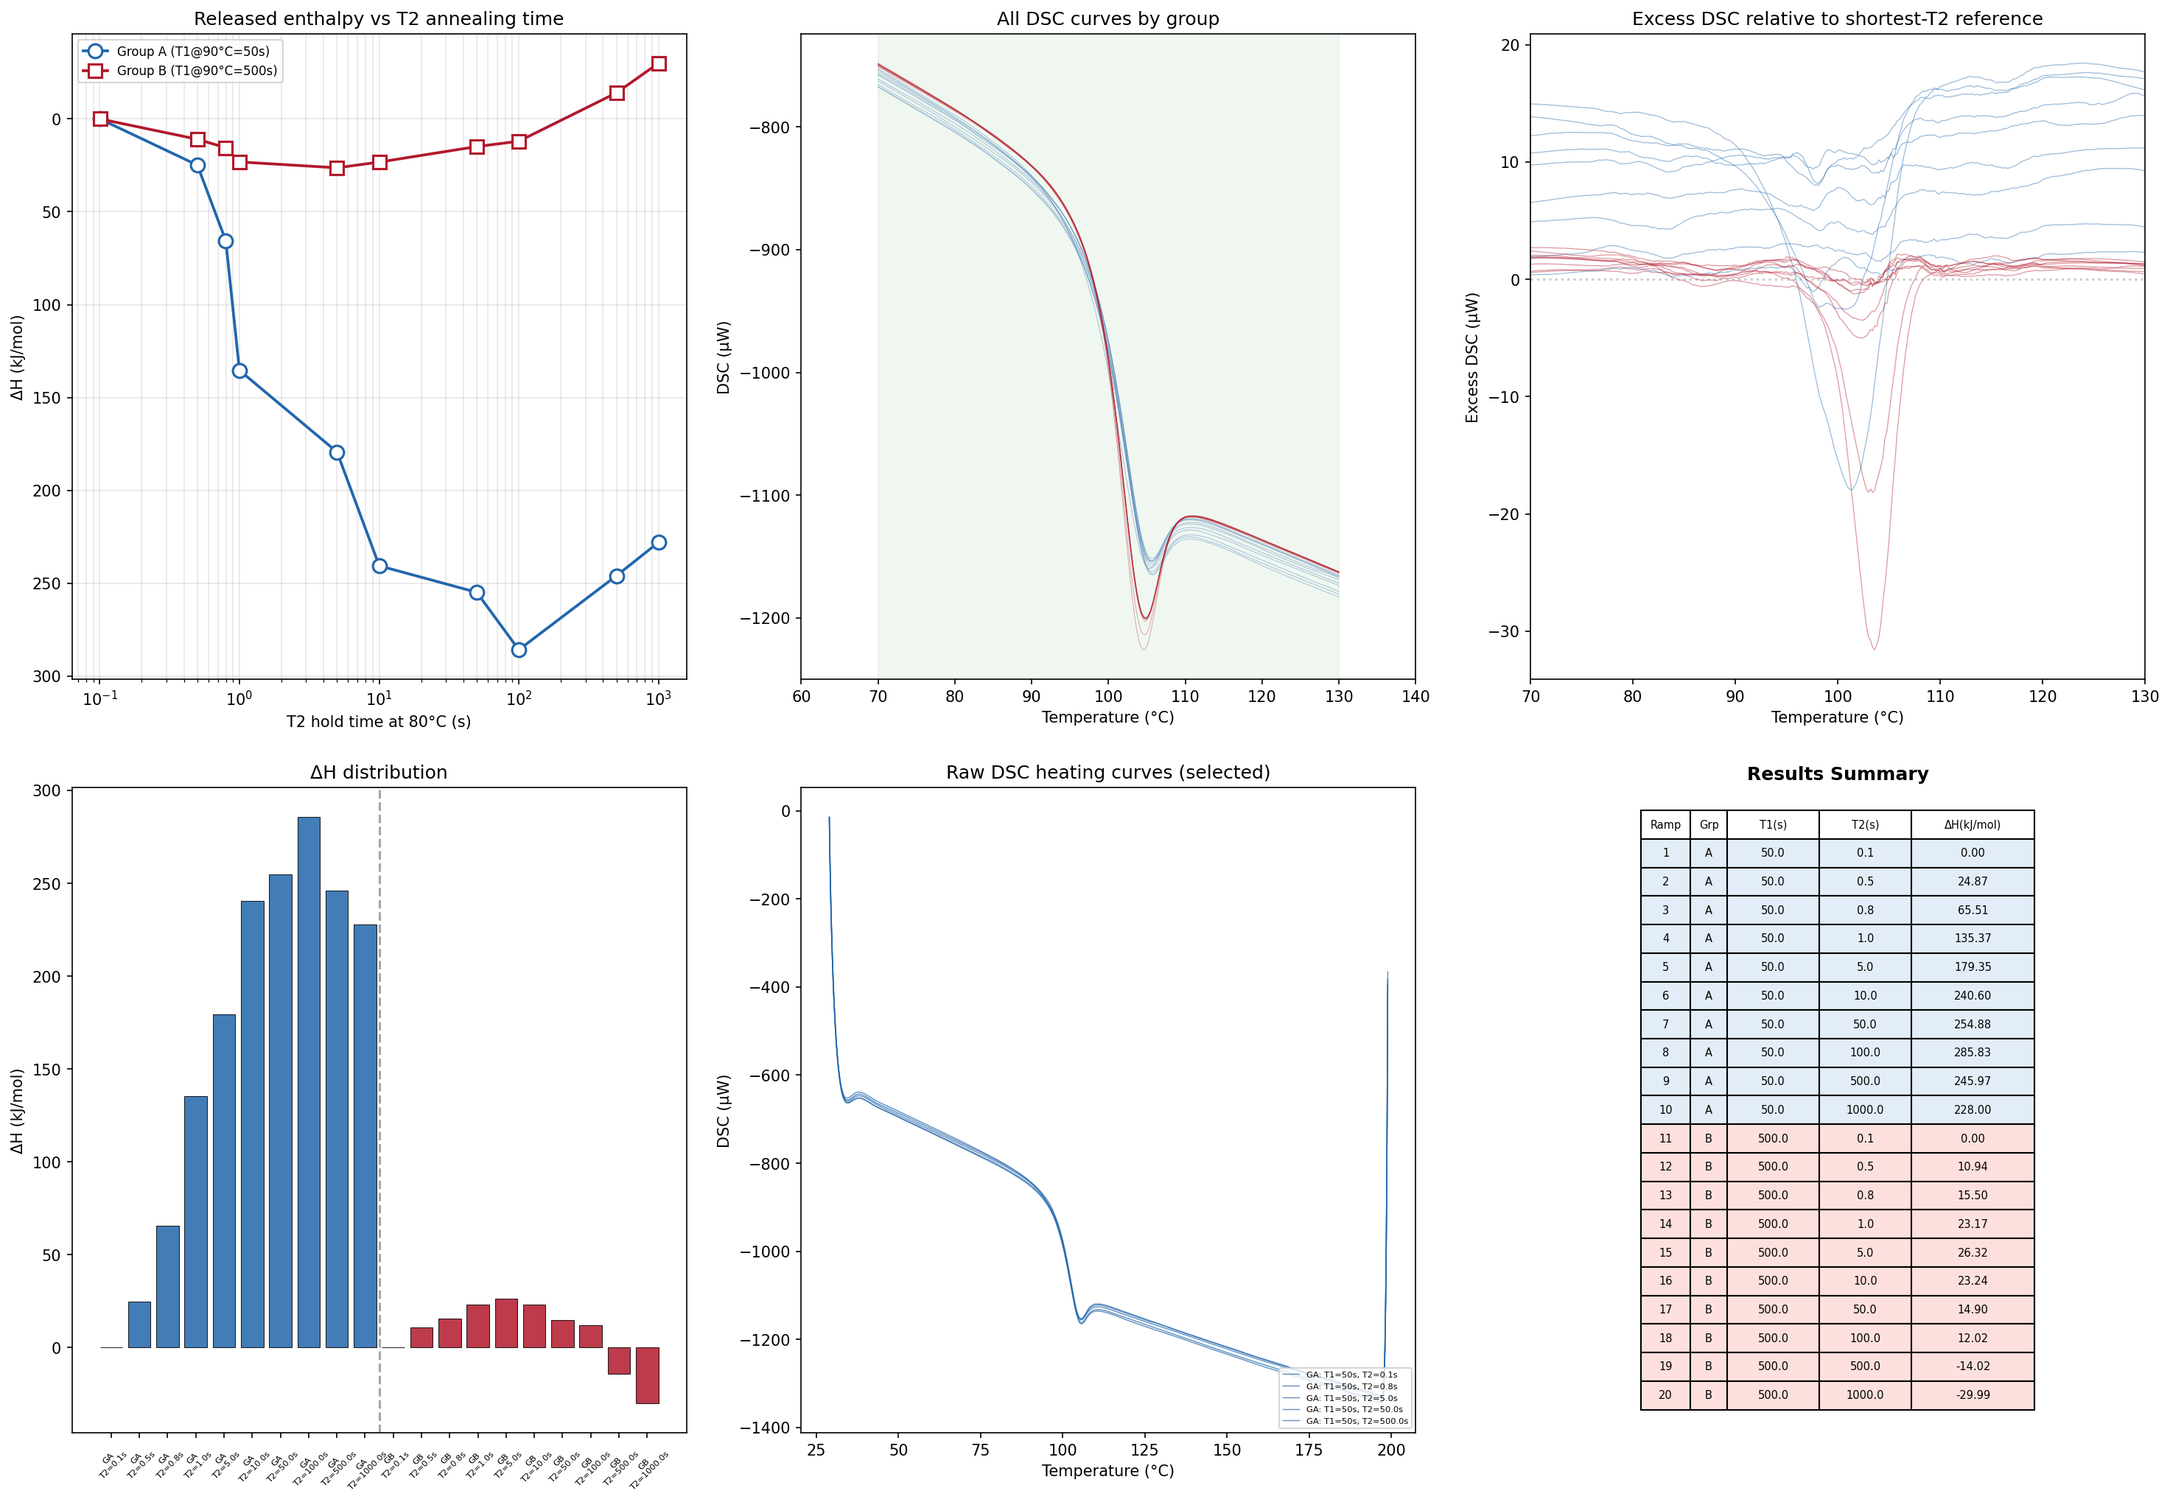
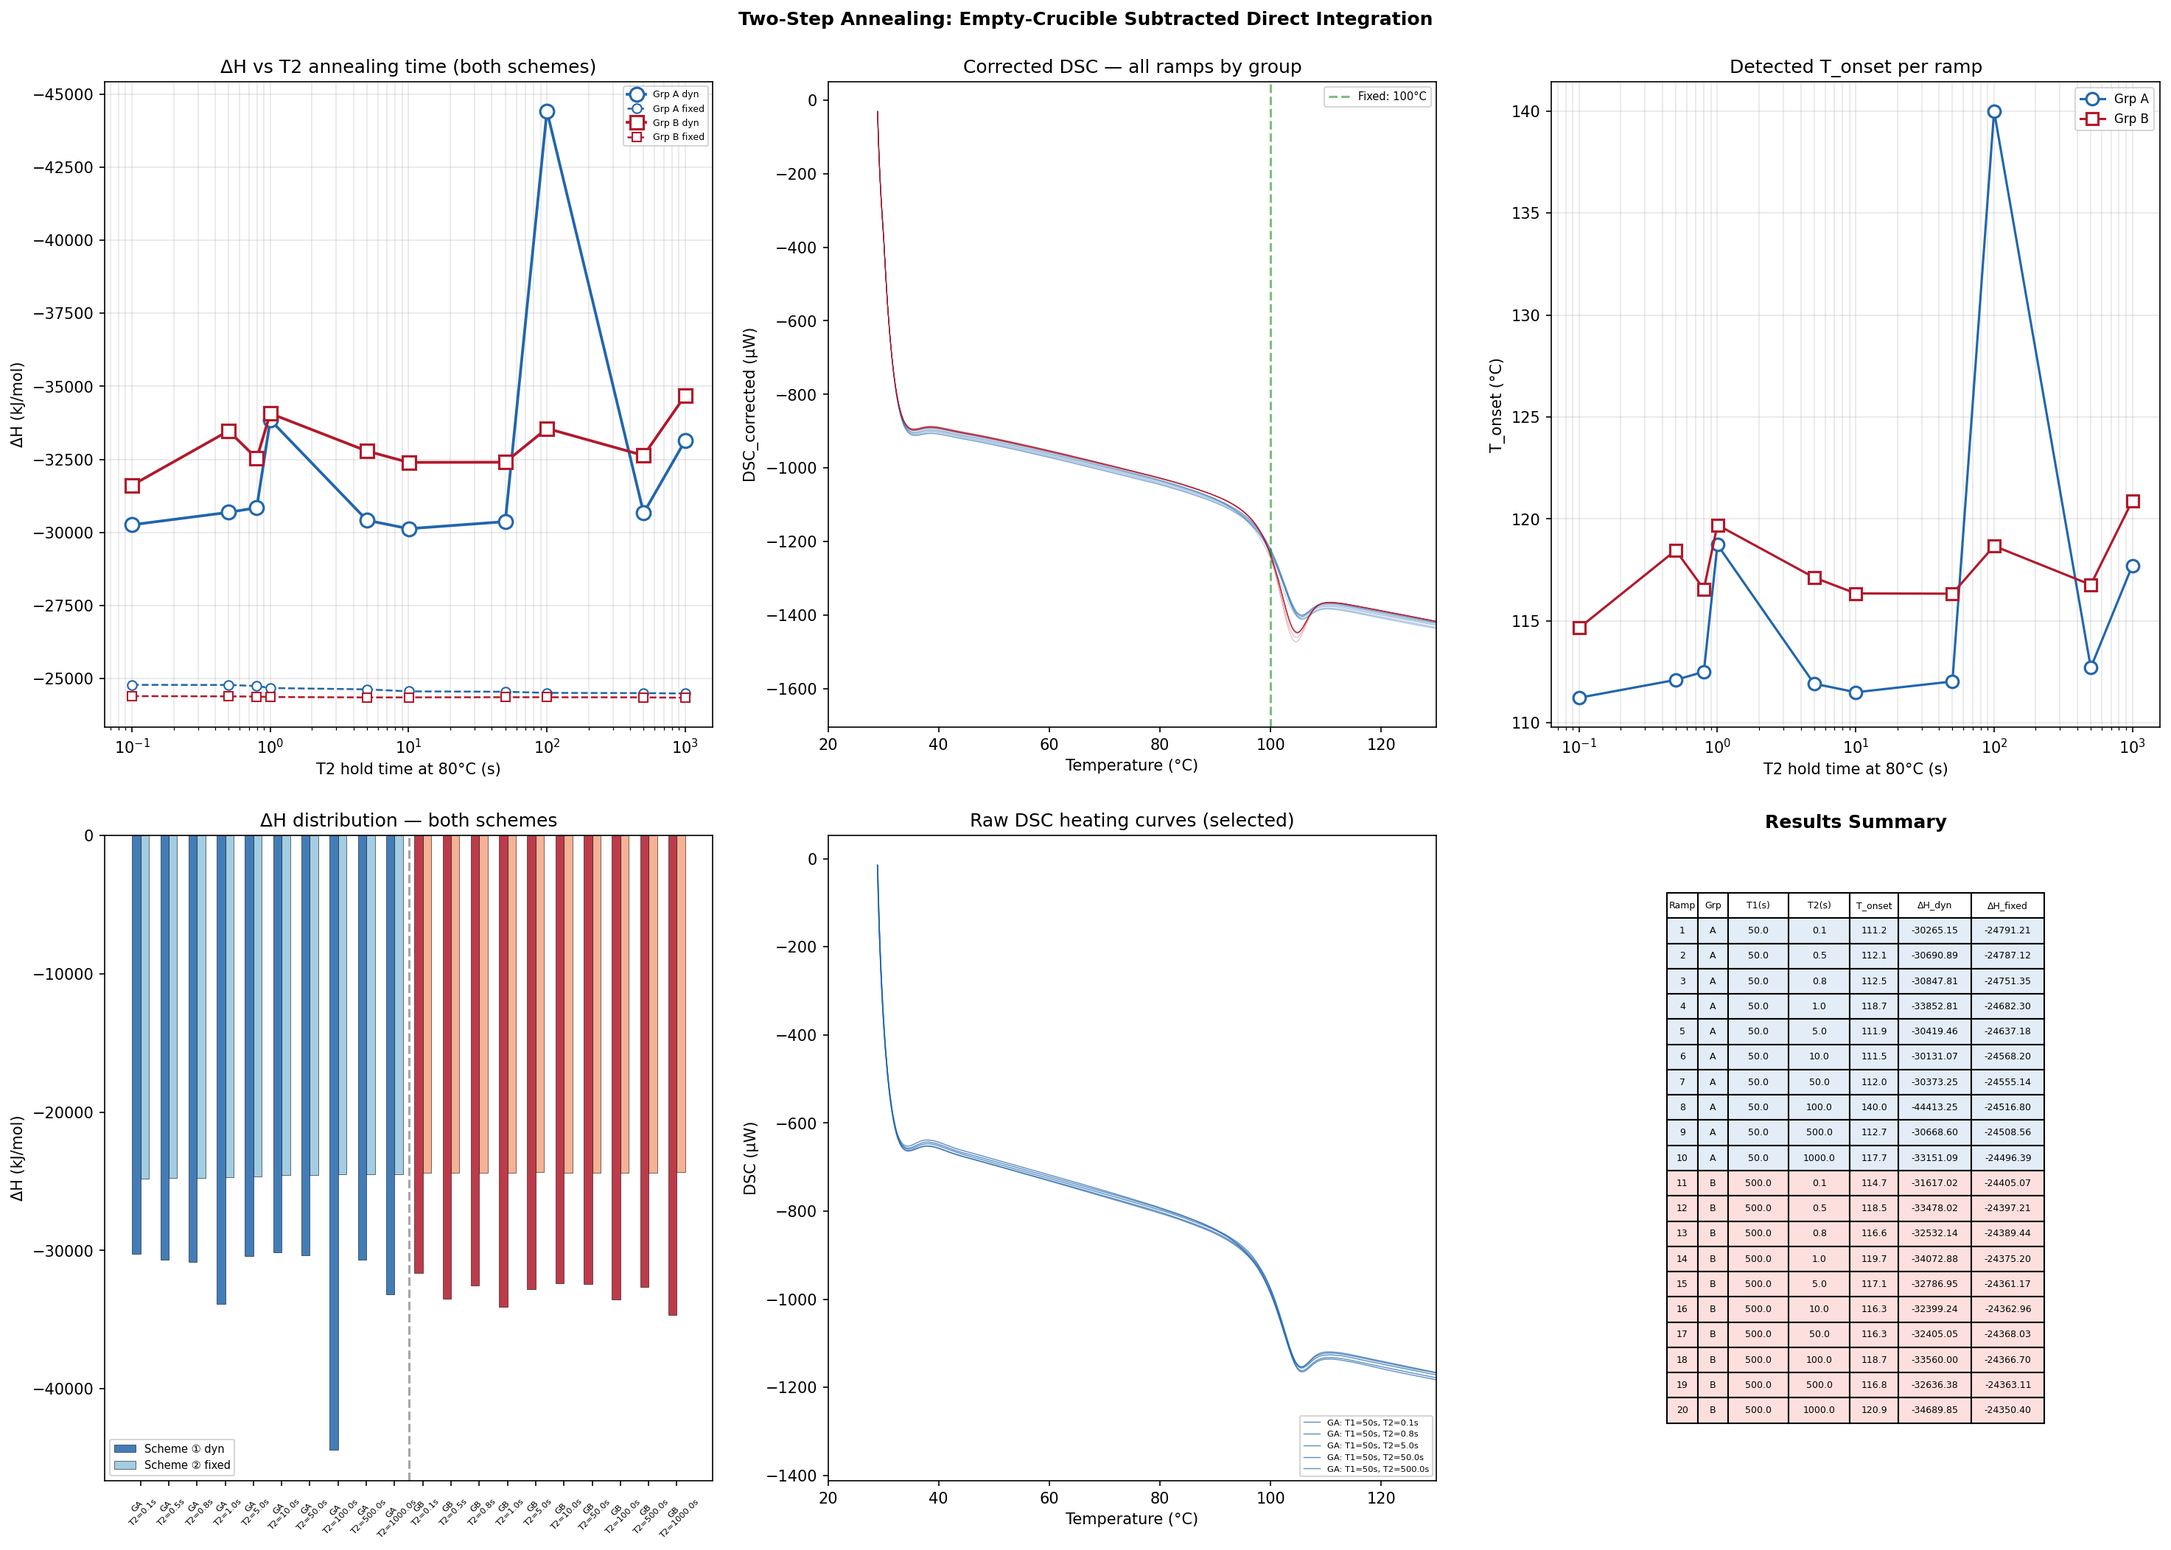
refactor: two-step processing to empty-crucible subtraction with dual-scheme integration

diff --git a/src/process_twosteps.py b/src/process_twosteps.py
@@ -1,14 +1,15 @@
 """
-Two-step annealing DSC data processing — Direct difference method.
+Two-step annealing DSC data processing — Empty-crucible subtraction + direct integration.
 
 Two-step: 200→90°C(hold T1)→80°C(hold T2)→30°C→200°C(measure)
-Per-group reference: shortest T2-hold ramp in each group.
+Empty crucible baseline subtracted; dual-scheme integration:
+  Scheme (1): 30°C → T_onset (dynamic)
+  Scheme (2): 30°C → 100°C (fixed)
 """
 
 import os
 import numpy as np
 import pandas as pd
-from scipy.interpolate import interp1d
 from scipy.integrate import trapezoid
 import matplotlib
 matplotlib.use('Agg')
@@ -16,6 +17,7 @@ import matplotlib.pyplot as plt
 
 from process_shared import (
     load_dsc_experiment, detect_heating_ramps, compute_enthalpy,
+    load_empty_crucible, subtract_empty_crucible, detect_t_onset,
     HEATING_T_START, HEATING_T_END,
 )
 
@@ -23,9 +25,11 @@ ROOT_DIR = os.path.dirname(os.path.dirname(os.path.abspath(__file__)))
 DATA_DIR = os.path.join(ROOT_DIR, 'data')
 RESULTS_DIR = os.path.join(ROOT_DIR, 'results', 'dsc')
 
-T_INT_LOW = 70
-T_INT_HIGH = 130
+T_INT_LOW = 30
+T_INT_HIGH_FIXED = 100
 T_GRID_STEP = 0.2
+
+EMPTY_CRUCIBLE_CSV = os.path.join(DATA_DIR, 'csv', 'baseline-01.csv')
 
 
 def map_two_step(program, ramps):
@@ -72,8 +76,13 @@ def map_two_step(program, ramps):
 
 def main():
     print("=" * 70)
-    print("  Two-step annealing DSC — Direct difference method")
+    print("  Two-step annealing DSC — Empty-crucible subtraction + direct integration")
     print("=" * 70)
+
+    # Load empty crucible
+    T_empty, DSC_empty = load_empty_crucible(EMPTY_CRUCIBLE_CSV)
+    print(f"  Loaded empty crucible: {len(T_empty)} pts, "
+          f"{T_empty.min():.1f}–{T_empty.max():.1f}°C")
 
     exp_data, program = load_dsc_experiment(
         os.path.join(DATA_DIR, 'twosteps.xlsx'), sheet='PS-02')
@@ -89,122 +98,127 @@ def main():
         print(f"    Ramp {c['ramp_idx']:2d} [Grp {c['group']}]: "
               f"T1@90°C={c['T1_hold_s']:8.1f}s, T2@80°C={c['T2_hold_s']:8.1f}s")
 
-    # Common grid
-    T_grid = np.arange(T_INT_LOW, T_INT_HIGH + T_GRID_STEP, T_GRID_STEP)
-
-    # Interpolate all ramps
-    dsc_interp = {}
-    for cond in conditions:
-        s, e = cond['start_idx'], cond['end_idx']
-        f = interp1d(T_exp[s:e+1], DSC_exp[s:e+1], kind='linear',
-                     bounds_error=False, fill_value='extrapolate')
-        dsc_interp[cond['ramp_idx']] = f(T_grid)
-
-    # Per-group processing
+    # Process each ramp
     results = []
     colors = {'A': '#2166AC', 'B': '#B2182B'}
     markers = {'A': 'o', 'B': 's'}
 
-    for grp_label in ['A', 'B']:
-        grp_conds = [c for c in conditions if c['group'] == grp_label]
-        if len(grp_conds) < 2:
-            continue
+    for cond in conditions:
+        s, e = cond['start_idx'], cond['end_idx']
+        T_ramp = T_exp[s:e+1]
+        DSC_ramp = DSC_exp[s:e+1]
 
-        ref_cond = min(grp_conds, key=lambda c: c['T2_hold_s'])
-        ref_dsc = dsc_interp[ref_cond['ramp_idx']]
+        DSC_corr = subtract_empty_crucible(T_ramp, DSC_ramp, T_empty, DSC_empty)
 
-        print(f"\n  [Group {grp_label}] Reference: ramp {ref_cond['ramp_idx']}, "
-              f"T2 hold = {ref_cond['T2_hold_s']:.1f}s")
+        # Scheme ①: dynamic T_onset
+        T_onset = detect_t_onset(T_ramp, DSC_corr)
+        mask1 = (T_ramp >= T_INT_LOW) & (T_ramp <= T_onset)
+        area1 = trapezoid(DSC_corr[mask1], T_ramp[mask1])
+        dH1 = compute_enthalpy(area1)
 
-        for cond in grp_conds:
-            excess = dsc_interp[cond['ramp_idx']] - ref_dsc
-            excess_area = trapezoid(excess, T_grid)
-            delta_H = compute_enthalpy(excess_area)
-            results.append({
-                'ramp': cond['ramp_idx'],
-                'group': cond['group'],
-                'T1_hold_s': cond['T1_hold_s'],
-                'T2_hold_s': cond['T2_hold_s'],
-                'T1_hold_min': cond['T1_hold_min'],
-                'T2_hold_min': cond['T2_hold_min'],
-                'delta_H_kJmol': delta_H,
-                'is_ref': (cond['ramp_idx'] == ref_cond['ramp_idx']),
-            })
-            marker = ' *REF*' if cond['ramp_idx'] == ref_cond['ramp_idx'] else ''
-            print(f"    Ramp {cond['ramp_idx']:2d}: "
-                  f"T1={cond['T1_hold_s']:8.1f}s, T2={cond['T2_hold_s']:8.1f}s → "
-                  f"ΔH={delta_H:+.2f} kJ/mol{marker}")
+        # Scheme ②: fixed 30–100°C
+        mask2 = (T_ramp >= T_INT_LOW) & (T_ramp <= T_INT_HIGH_FIXED)
+        area2 = trapezoid(DSC_corr[mask2], T_ramp[mask2])
+        dH2 = compute_enthalpy(area2)
+
+        results.append({
+            'ramp': cond['ramp_idx'],
+            'group': cond['group'],
+            'T1_hold_s': cond['T1_hold_s'],
+            'T2_hold_s': cond['T2_hold_s'],
+            'T1_hold_min': cond['T1_hold_min'],
+            'T2_hold_min': cond['T2_hold_min'],
+            'T_onset': T_onset,
+            'delta_H_dyn_kJmol': dH1,
+            'delta_H_fixed_kJmol': dH2,
+        })
+        print(f"    Ramp {cond['ramp_idx']:2d}: T1={cond['T1_hold_s']:8.1f}s, "
+              f"T2={cond['T2_hold_s']:8.1f}s, T_onset={T_onset:.1f}°C → "
+              f"ΔH_dyn={dH1:+.2f}, ΔH_fixed={dH2:+.2f} kJ/mol")
 
     results_df = pd.DataFrame(results)
 
-    # ── Plots ──────────────────────────────────────────────────────────────
+    # Generate plots
     fig = plt.figure(figsize=(20, 14))
 
-    # Panel 1: ΔH vs T2 hold time (per group)
+    # Panel 1: ΔH vs T2 hold time — both schemes per group
     ax1 = fig.add_subplot(2, 3, 1)
     for grp in ['A', 'B']:
         rd = results_df[results_df['group'] == grp].sort_values('T2_hold_s')
-        ax1.plot(rd['T2_hold_s'], rd['delta_H_kJmol'],
+        ax1.plot(rd['T2_hold_s'], rd['delta_H_dyn_kJmol'],
                  marker=markers[grp], color=colors[grp], linewidth=1.8,
                  markersize=9, markerfacecolor='white',
-                 markeredgewidth=1.5, label=f'Group {grp} (T1@90°C={50 if grp=="A" else 500}s)')
+                 markeredgewidth=1.5, linestyle='-',
+                 label=f'Grp {grp} dyn')
+        ax1.plot(rd['T2_hold_s'], rd['delta_H_fixed_kJmol'],
+                 marker=markers[grp], color=colors[grp], linewidth=1.2,
+                 markersize=6, markerfacecolor='white',
+                 markeredgewidth=1.0, linestyle='--',
+                 label=f'Grp {grp} fixed')
     ax1.set_xlabel('T2 hold time at 80°C (s)')
     ax1.set_ylabel('ΔH (kJ/mol)')
-    ax1.set_title('Released enthalpy vs T2 annealing time')
+    ax1.set_title('ΔH vs T2 annealing time (both schemes)')
     ax1.set_xscale('log')
     ax1.invert_yaxis()
-    ax1.legend(fontsize=8)
+    ax1.legend(fontsize=6)
     ax1.grid(True, alpha=0.3, which='both')
 
-    # Panel 2: All DSC curves on common grid
+    # Panel 2: Corrected DSC curves
     ax2 = fig.add_subplot(2, 3, 2)
     for cond in conditions:
-        ax2.plot(T_grid, dsc_interp[cond['ramp_idx']],
-                 alpha=0.35, linewidth=0.5,
+        s, e = cond['start_idx'], cond['end_idx']
+        T_ramp = T_exp[s:e+1]
+        DSC_ramp = DSC_exp[s:e+1]
+        DSC_corr = subtract_empty_crucible(T_ramp, DSC_ramp, T_empty, DSC_empty)
+        ax2.plot(T_ramp, DSC_corr, alpha=0.35, linewidth=0.5,
                  color=colors[cond['group']])
-    ax2.axvspan(T_INT_LOW, T_INT_HIGH, alpha=0.06, color='green')
+    ax2.axvline(T_INT_HIGH_FIXED, color='green', linestyle='--', alpha=0.5,
+                label=f'Fixed: {T_INT_HIGH_FIXED}°C')
     ax2.set_xlabel('Temperature (°C)')
-    ax2.set_ylabel('DSC (µW)')
-    ax2.set_title('All DSC curves by group')
-    ax2.set_xlim(T_INT_LOW - 10, T_INT_HIGH + 10)
+    ax2.set_ylabel('DSC_corrected (µW)')
+    ax2.set_title('Corrected DSC — all ramps by group')
+    ax2.set_xlim(T_INT_LOW - 10, T_INT_HIGH_FIXED + 30)
+    ax2.legend(fontsize=7)
 
-    # Panel 3: Excess DSC relative to ref
+    # Panel 3: T_onset distribution
     ax3 = fig.add_subplot(2, 3, 3)
-    ref_idxs = {}
     for grp in ['A', 'B']:
-        gcs = [c for c in conditions if c['group'] == grp]
-        ref_idxs[grp] = min(gcs, key=lambda c: c['T2_hold_s'])['ramp_idx']
-    for cond in conditions:
-        ridx = cond['ramp_idx']
-        ref_idx = ref_idxs[cond['group']]
-        if ridx == ref_idx:
-            continue
-        excess = dsc_interp[ridx] - dsc_interp[ref_idx]
-        ax3.plot(T_grid, excess, alpha=0.45, linewidth=0.6,
-                 color=colors[cond['group']])
-    ax3.axhline(0, color='gray', linestyle=':', alpha=0.4)
-    ax3.set_xlabel('Temperature (°C)')
-    ax3.set_ylabel('Excess DSC (µW)')
-    ax3.set_title('Excess DSC relative to shortest-T2 reference')
-    ax3.set_xlim(T_INT_LOW, T_INT_HIGH)
+        rd = results_df[results_df['group'] == grp].sort_values('T2_hold_s')
+        ax3.plot(rd['T2_hold_s'], rd['T_onset'],
+                 marker=markers[grp], color=colors[grp], linewidth=1.5,
+                 markersize=8, markerfacecolor='white',
+                 markeredgewidth=1.5, label=f'Grp {grp}')
+    ax3.set_xlabel('T2 hold time at 80°C (s)')
+    ax3.set_ylabel('T_onset (°C)')
+    ax3.set_title('Detected T_onset per ramp')
+    ax3.set_xscale('log')
+    ax3.legend(fontsize=8)
+    ax3.grid(True, alpha=0.3, which='both')
 
-    # Panel 4: ΔH bar chart
+    # Panel 4: ΔH bar chart comparison
     ax4 = fig.add_subplot(2, 3, 4)
     n = len(results_df)
     x_pos = np.arange(n)
-    bar_colors = [colors[r['group']] for _, r in results_df.iterrows()]
-    ax4.bar(x_pos, results_df['delta_H_kJmol'], color=bar_colors,
-            edgecolor='black', linewidth=0.5, alpha=0.85)
+    bar_colors_dyn = [colors[r['group']] for _, r in results_df.iterrows()]
+    bar_colors_fixed = ['#92C5DE' if r['group'] == 'A' else '#F4A582'
+                        for _, r in results_df.iterrows()]
+    ax4.bar(x_pos - 0.15, results_df['delta_H_dyn_kJmol'], 0.3,
+            color=bar_colors_dyn, edgecolor='black', linewidth=0.3, alpha=0.85,
+            label='Scheme ① dyn')
+    ax4.bar(x_pos + 0.15, results_df['delta_H_fixed_kJmol'], 0.3,
+            color=bar_colors_fixed, edgecolor='black', linewidth=0.3, alpha=0.85,
+            label='Scheme ② fixed')
     ax4.set_xticks(x_pos)
     ax4.set_xticklabels([f"G{r['group']}\nT2={r['T2_hold_s']:.1f}s"
                          for _, r in results_df.iterrows()],
                         fontsize=5.5, rotation=45)
     ax4.set_ylabel('ΔH (kJ/mol)')
-    ax4.set_title('ΔH distribution')
+    ax4.set_title('ΔH distribution — both schemes')
+    ax4.legend(fontsize=7)
     mid = len(results_df[results_df['group'] == 'A']) - 0.5
     ax4.axvline(mid, color='gray', linestyle='--', alpha=0.7)
 
-    # Panel 5: DSC curves (selected) on original grid
+    # Panel 5: Raw DSC curves on original grid (selected)
     ax5 = fig.add_subplot(2, 3, 5)
     highlight = [0, 2, 4, 6, 8]
     for idx in highlight:
@@ -220,8 +234,9 @@ def main():
     ax5.set_ylabel('DSC (µW)')
     ax5.set_title('Raw DSC heating curves (selected)')
     ax5.legend(fontsize=5.5, loc='lower right')
+    ax5.set_xlim(T_INT_LOW - 10, T_INT_HIGH_FIXED + 30)
 
-    # Panel 6: Table
+    # Panel 6: Results table
     ax6 = fig.add_subplot(2, 3, 6)
     ax6.axis('off')
     table_data = []
@@ -229,29 +244,36 @@ def main():
         table_data.append([
             f"{r['ramp']:.0f}", r['group'],
             f"{r['T1_hold_s']:.1f}", f"{r['T2_hold_s']:.1f}",
-            f"{r['delta_H_kJmol']:.2f}",
+            f"{r['T_onset']:.1f}",
+            f"{r['delta_H_dyn_kJmol']:.2f}",
+            f"{r['delta_H_fixed_kJmol']:.2f}",
         ])
-    col_labels = ['Ramp', 'Grp', 'T1(s)', 'T2(s)', 'ΔH(kJ/mol)']
+    col_labels = ['Ramp', 'Grp', 'T1(s)', 'T2(s)', 'T_onset',
+                  'ΔH_dyn', 'ΔH_fixed']
     table = ax6.table(cellText=table_data, colLabels=col_labels,
                       cellLoc='center', loc='center',
-                      colWidths=[0.08, 0.06, 0.15, 0.15, 0.2])
+                      colWidths=[0.05, 0.05, 0.10, 0.10, 0.08, 0.12, 0.12])
     table.auto_set_font_size(False)
-    table.set_fontsize(7)
-    table.scale(1.0, 1.3)
+    table.set_fontsize(6)
+    table.scale(1.0, 1.15)
     for row_idx in range(len(table_data)):
-        for col_idx in range(5):
+        for col_idx in range(7):
             cell = table[row_idx + 1, col_idx]
             cell.set_facecolor('#E3EDF8' if row_idx < 10 else '#FDE0DD')
     ax6.set_title('Results Summary', fontweight='bold', pad=5)
 
     plt.tight_layout(pad=2)
+    fig.suptitle('Two-Step Annealing: Empty-Crucible Subtracted Direct Integration',
+                 fontsize=12, fontweight='bold', y=1.01)
     png_path = os.path.join(RESULTS_DIR, 'twosteps_enthalpy_results.png')
     plt.savefig(png_path, dpi=150, bbox_inches='tight')
+    plt.close()
     print(f"\n  Saved {png_path}")
 
     csv_path = os.path.join(RESULTS_DIR, 'twosteps_enthalpy_results.csv')
     save_cols = ['ramp', 'group', 'T1_hold_s', 'T2_hold_s',
-                 'T1_hold_min', 'T2_hold_min', 'delta_H_kJmol']
+                 'T1_hold_min', 'T2_hold_min', 'T_onset',
+                 'delta_H_dyn_kJmol', 'delta_H_fixed_kJmol']
     results_df[save_cols].to_csv(csv_path, index=False, float_format='%.6f')
     print(f"  Saved {csv_path}")
 
@@ -263,8 +285,12 @@ def main():
         rd = results_df[results_df['group'] == grp]
         t1_val = rd['T1_hold_s'].iloc[0]
         print(f"\n  Group {grp} (T1@90°C = {t1_val:.0f}s):")
-        print(f"    ΔH: {rd['delta_H_kJmol'].min():.2f} – "
-              f"{rd['delta_H_kJmol'].max():.2f} kJ/mol, n={len(rd)}")
+        print(f"    ΔH_dyn:   {rd['delta_H_dyn_kJmol'].min():.2f} – "
+              f"{rd['delta_H_dyn_kJmol'].max():.2f} kJ/mol")
+        print(f"    ΔH_fixed: {rd['delta_H_fixed_kJmol'].min():.2f} – "
+              f"{rd['delta_H_fixed_kJmol'].max():.2f} kJ/mol")
+        print(f"    T_onset:  {rd['T_onset'].min():.0f} – "
+              f"{rd['T_onset'].max():.0f} °C, n={len(rd)}")
 
     return results_df
 
